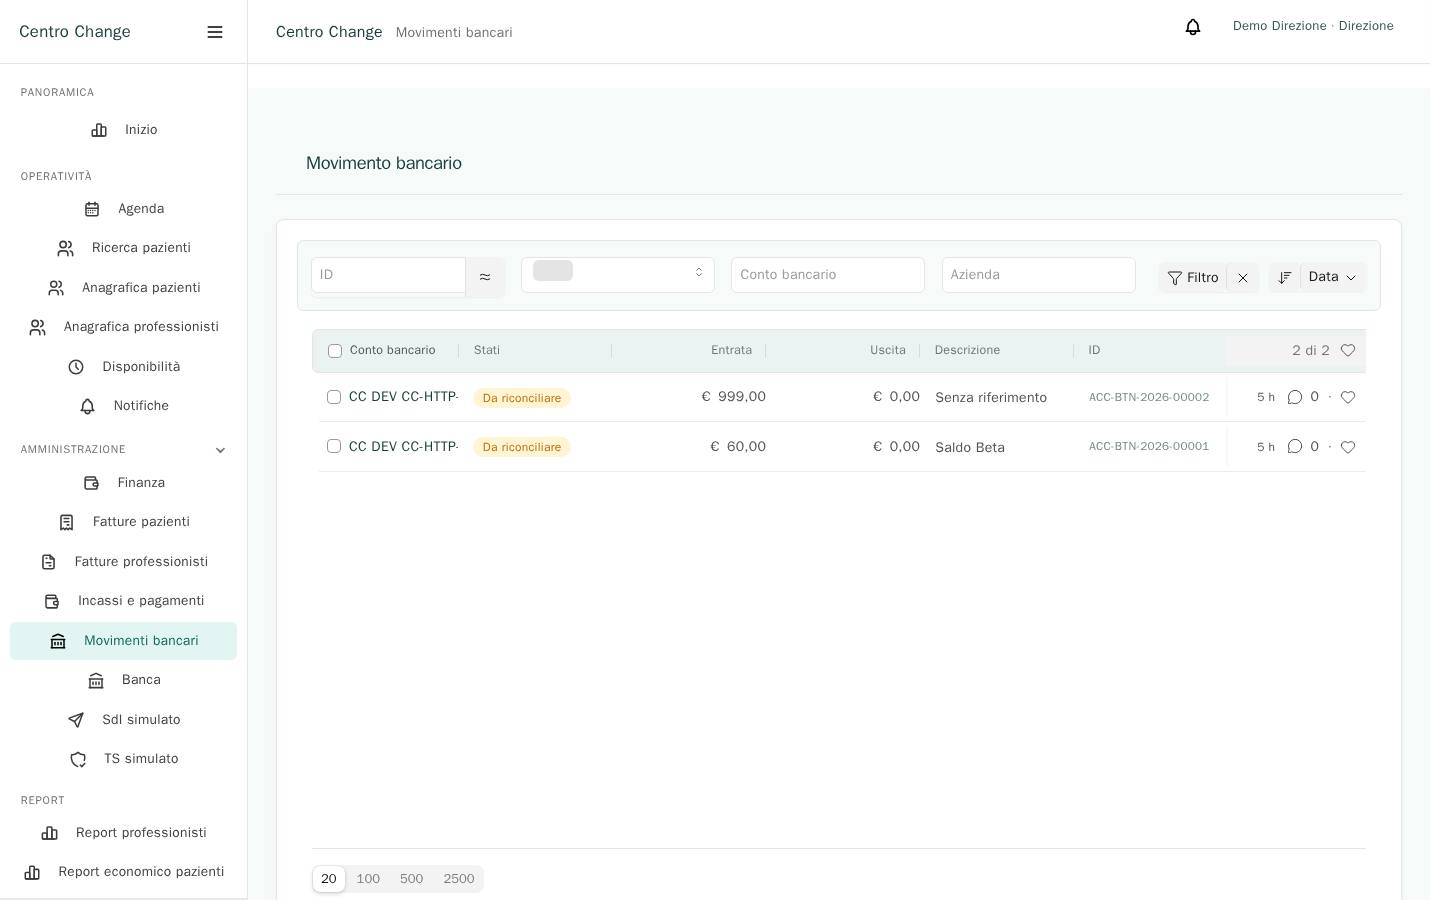
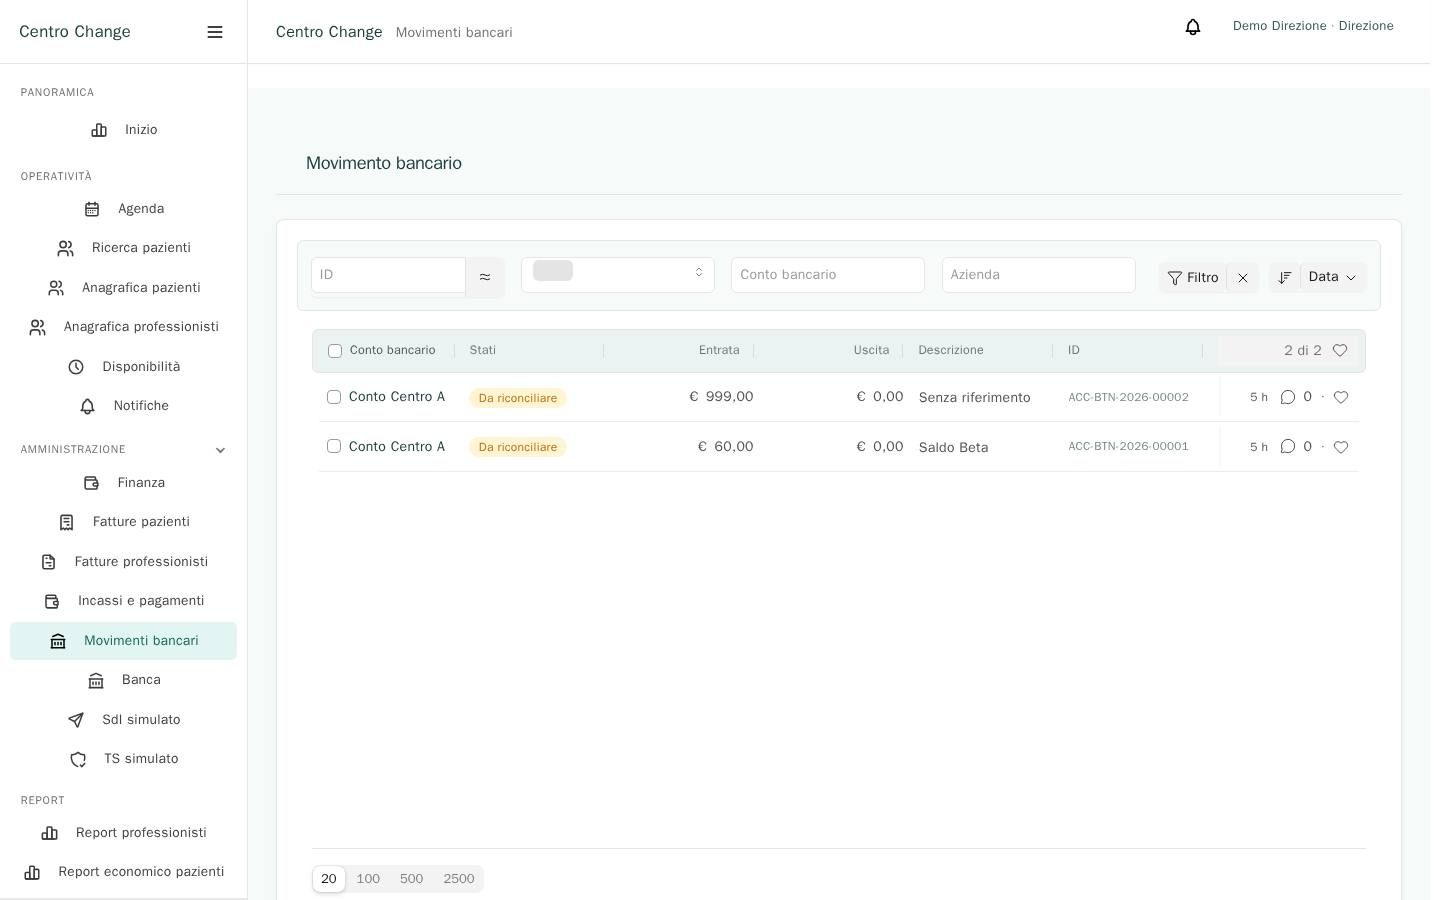
fix(ui): present synthetic bank account labels clearly

diff --git a/app/centrochange_core/centrochange_core/public/js/cc_desk_client.js b/app/centrochange_core/centrochange_core/public/js/cc_desk_client.js
@@ -192,12 +192,19 @@
       if (/^CC-HTTP-UAT\d+\s+\S/.test(displayed)) {
         node.title = `${displayed} · ${canonical}`;
         node.textContent = readablePerson(displayed);
-      } else if (route === "bank-transaction" && /^CC DEV CC-HTTP-UAT\d+\s+[A-Z]$/.test(displayed)) {
+      } else if (route === "bank-transaction" && /^CC DEV CC-HTTP-UAT\d+\s+[A-Z](?: - CC SYNTHETIC BANK)?$/.test(displayed)) {
         node.title = displayed;
-        node.textContent = `Conto Centro ${displayed.split(" ").pop()}`;
+        node.textContent = `Conto Centro ${displayed.match(/CC-HTTP-UAT\d+\s+([A-Z])/)?.[1]}`;
       }
     }
     if (route === "bank-transaction") {
+      for (const node of document.querySelectorAll('.list-row [data-fieldname="bank_account"] a, .list-row .list-subject a')) {
+        const original = node.textContent.trim();
+        if (/^CC DEV CC-HTTP-UAT\d+\s+[A-Z](?: - CC SYNTHETIC BANK)?$/.test(original)) {
+          node.title = original;
+          node.textContent = `Conto Centro ${original.match(/CC-HTTP-UAT\d+\s+([A-Z])/)?.[1]}`;
+        }
+      }
       for (const node of document.querySelectorAll('.list-row [data-fieldname="description"] a, .list-row [data-fieldname="description"] .ellipsis')) {
         if (node.children.length || !/^SYNTHETIC UAT\s+/i.test(node.textContent.trim())) continue;
         const original = node.textContent.trim();

diff --git a/docs/evidence/issue-75/TABLER-UI-CORRECTION-OWNER-RETEST-2026-10-12.md b/docs/evidence/issue-75/TABLER-UI-CORRECTION-OWNER-RETEST-2026-10-12.md
@@ -8,7 +8,7 @@ La HEAD di partenza era `4e1c6aa0a00647562627fc515c49f15b7b3eb647`, senza modifi
 
 Una sequenza Chromium Home → Agenda → Pazienti → Professionisti → Catalogo ha riprodotto uno scarto deterministico: entrando in Catalogo Frappe attivava il dock tecnico `#desk-dock` largo **57 px**, spostando `.main-section` da x=0 a x=57; sidebar, navbar e contenuto finivano rispettivamente a x=0, x=305 e x=305. Un semplice reset del margine di `.main-section` non bastava: il dock partecipava al flex del body. La shell cliente ora nasconde il dock solo per `body.cc-client-desk`, mantenendo intatta l'interfaccia Administrator. Dopo la correzione, su Catalogo le coordinate sono x=0, x=248 e x=248.
 
[2 lines of base64/hex data omitted]
 
 ## Correzione distribuita
 
@@ -16,7 +16,7 @@ La shell cliente usa le classi Tabler `.page`, `.navbar.navbar-vertical`, `.page
 
 Agenda, Finanza, Report e Home condividono spaziature, card, filtri, tipografia e colori. I breadcrumb di navigazione globale ripetuti nei report sono rimossi perché le destinazioni restano nella sidebar. Il calendario settimanale mantiene sette intestazioni giorno e sette colonne. Nessun cambiamento a schema, dati, API, permessi, contabilità, prenotazioni, note cliniche, SdI/TS o workflow.
 
-Immagine finale installata: **`sha256:9e7b06cde6e9241e0f52ef198e71d5b8020bbb367d155b7bb1f45453ebce34b3`**. Solo i sei servizi applicativi del progetto `centrochange-dev` sono stati ricreati; DB e Redis e i loro volumi sono rimasti. Un solo Bench logico, Site `centrochange.local`, DB `_4f614b4543aa5230`, nove servizi attivi. Frappe/ERPNext 16.50.0, Builder 1.35.1, Healthcare 16.6.1 e Tabler Core 1.6.1 invariati.
+Immagine finale installata: **`sha256:d7fde9fc7211359df2c127469bb3c3d9aa83f4d317501f4f1fc3b07a79f34fc0`**. Solo i sei servizi applicativi del progetto `centrochange-dev` sono stati ricreati; DB e Redis e i loro volumi sono rimasti. Un solo Bench logico, Site `centrochange.local`, DB `_4f614b4543aa5230`, nove servizi attivi. Frappe/ERPNext 16.50.0, Builder 1.35.1, Healthcare 16.6.1 e Tabler Core 1.6.1 invariati.
 
 ## Collaudo
 
